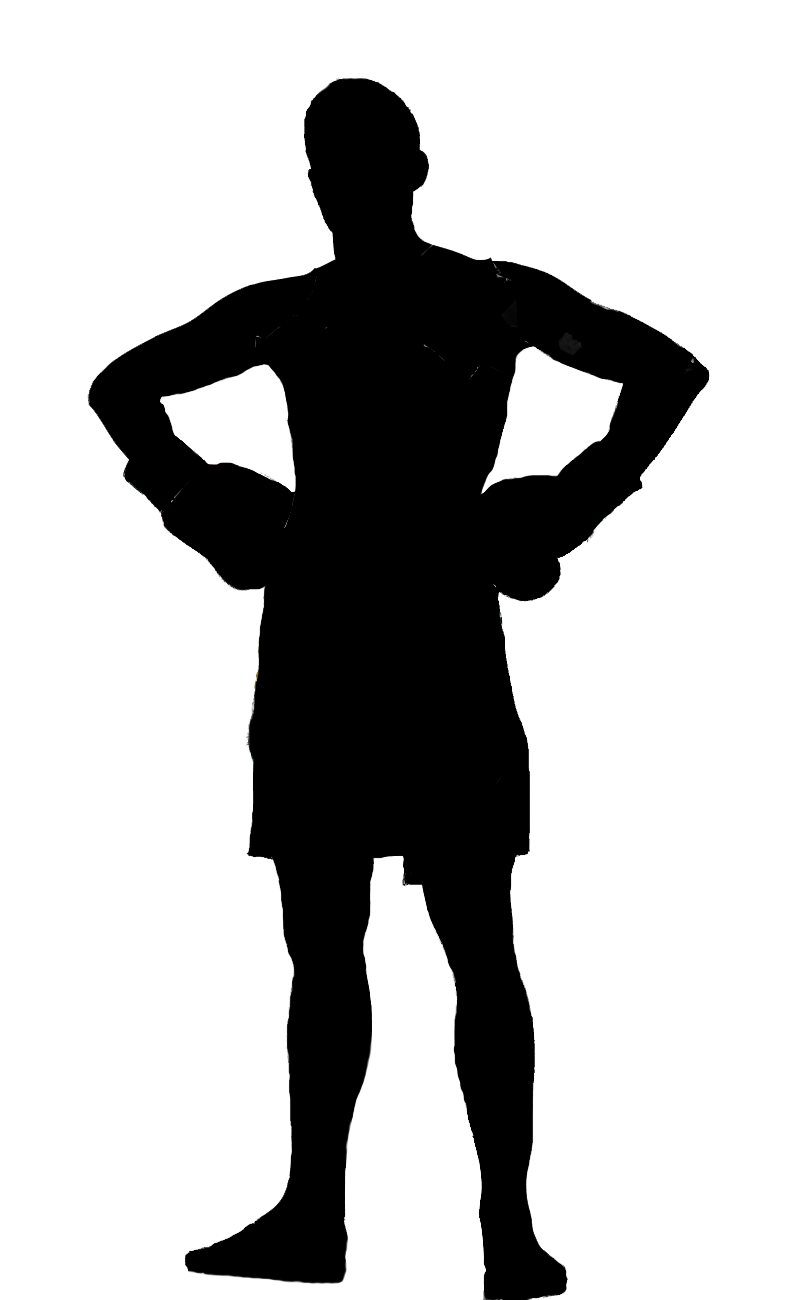
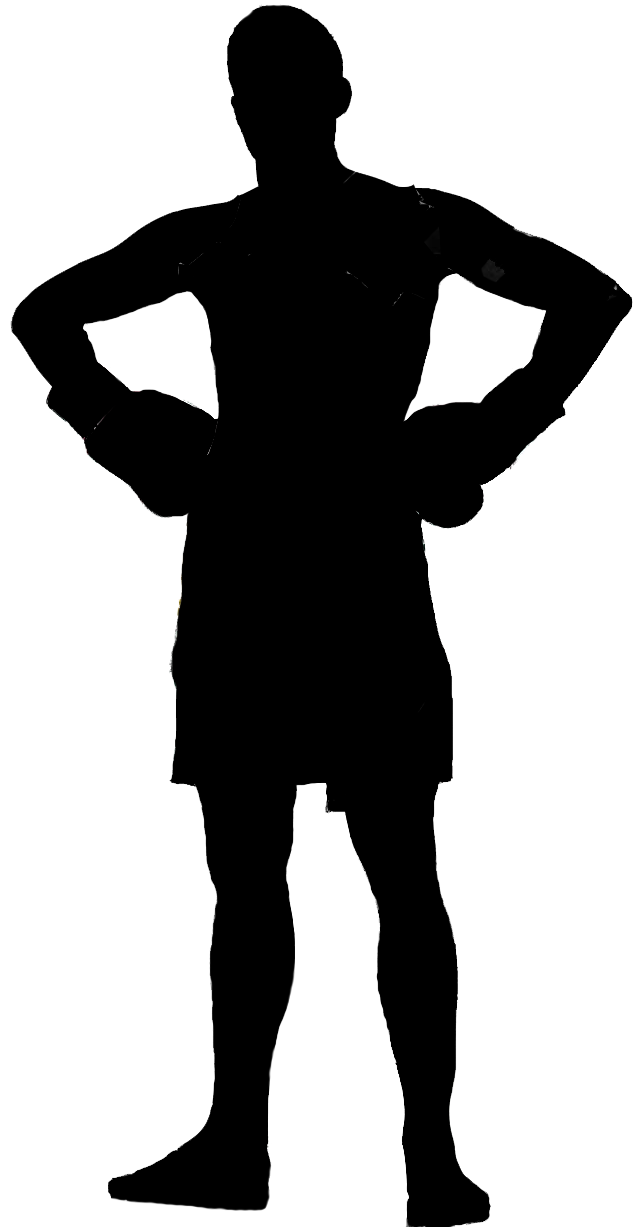
edited video settings and styling

diff --git a/public/stylesheets/style.css b/public/stylesheets/style.css
@@ -43,9 +43,13 @@ img.star_dividor {
 img.star_dividor.video {
 	margin: 15px auto;
 } 
-h1.video-title {
+h1.videos-title {
 	color: #8B0000;
 	font-size: 60px;
+}
+h1.video-title {
+	color: #8B0000;
+	font-size: 40px;
 }
 h1.title{
 	font-size: 120px;
@@ -128,6 +132,8 @@ h1 span.color_red {
 #player {
 	display: block;
 	margin: 0 auto;
+	width: 70%;
+	height: 80%;
 }
 button.player, button.player:hover {
 	display: inline-block;
@@ -158,7 +164,8 @@ img.player_button {
 div.player_group{
 	text-align: center;
 	display: block;
-	margin: 40px auto;
+	margin: 25px auto;
+	margin-top: 20px;
 }
 
 button.player.player1.button_outline,
@@ -178,7 +185,7 @@ button.btn-circle {
   line-height: 15px;
 }
 img.silhouette {
-	height: 400px;
+	height: 375px;
 
 }
 .image-container {
@@ -211,56 +218,56 @@ button.btn.motor_red {
 /* heart */
 button.motor1 {
 	position: absolute;  
-    left: 95px;
-    top: 100px;
+    left: 75px;
+    top: 75px;
 }
 /*left shoulder */
 button.motor2 {
 	position: absolute;  
-    left: 72px;
-    top: 86px;
+    left: 47px;
+    top: 63px;
 }
 /*right shoulder */
 button.motor3 {
 	position: absolute;  
-    left: 145px;
-    top: 81px;
+    left: 122px;
+    top: 57px;
 }
 /* left side */
 button.motor4 {
 	position: absolute;  
-    left: 90px;
-    top: 140px;
+    left: 68px;
+    top: 117px;
 }
 /* right side */
 button.motor5 {
 	position: absolute;  
-    left: 125px;
-    top: 140px;
+    left: 100px;
+    top: 117px;
 }
 /* left forearm */
 button.motor6 {
 	position: absolute;  
-    left: 30px;
-    top: 120px;
+    left: 10px;
+    top: 100px;
 }
 /* right forearm */
 button.motor7 {
 	position: absolute;  
-    left: 185px;
-    top: 120px;
+    left: 160px;
+    top: 100px;
 }
 /* left glove */
 button.motor8 {
 	position: absolute;  
-    left: 65px;
-    top: 150px;
+    left: 37px;
+    top: 125px;
 }
 /* right glove */
 button.motor9 {
 	position: absolute;  
-    left: 150px;
-    top: 150px;
+    left: 125px;
+    top: 125px;
 }
 .wrap {
 	text-align: center;

diff --git a/public/javascripts/youtube.js b/public/javascripts/youtube.js
@@ -12,6 +12,7 @@ function onYouTubeIframeAPIReady() {
     height: '390',
     width: '640',
     videoId: 'ahEjU-BFS8c',
+    playerVars: {'iv_load_policy': 3, 'autoplay': 0},
     events: {
       'onReady': onPlayerReady,
       'onStateChange': onPlayerStateChange
@@ -21,7 +22,7 @@ function onYouTubeIframeAPIReady() {
 
 // 4. The API will call this function when the video player is ready.
 function onPlayerReady(event) {
-  event.target.playVideo();
+  //event.target.playVideo();
 }
 
 // 5. The API calls this function when the player's state changes.
@@ -29,10 +30,7 @@ function onPlayerReady(event) {
 //    the player should play for six seconds and then stop.
 var done = false;
 function onPlayerStateChange(event) {
-  if (event.data == YT.PlayerState.PLAYING && !done) {
-    setTimeout(stopVideo, 6000);
-    done = true;
-  }
+
   if(event.data==1) { // playing
       var myTimer = setInterval(function(){ 
           var time;

diff --git a/public/stylesheets/video-gallery.css b/public/stylesheets/video-gallery.css
@@ -60,14 +60,14 @@
 @media screen and (max-width: 920px) {
 	.video-gallery {
 		width: 700px;
-		height: 600px;
+		height: 700px;
 	}
 }
 
 @media screen and (max-width: 730px) {
 	.video-gallery {
 		width: 600px;
-		height: 600px;
+		height: 800px;
 	}
 	.video-gallery li a,
 	.video-gallery li a img {
@@ -80,7 +80,7 @@
 @media screen and (max-width: 630px) {
 	.video-gallery {
 		width: 400px;
-		height: 600px;
+		height: 800px;
 	}
 	.video-gallery li a,
 	.video-gallery li a img {
@@ -90,16 +90,16 @@
 	width:150px;
 	}
 }
-@media screen and (max-width: 400px) {
+@media screen and (max-width: 500px) {
 	.video-gallery {
 		width: 350px;
-		height: 600px;
+		height: 700px;
 	}
 	.video-gallery li a,
 	.video-gallery li a img {
 	display: block;
 	position: relative;
 	height:135px;
-	width:135spx;
+	width:135px;
 	}
 }
